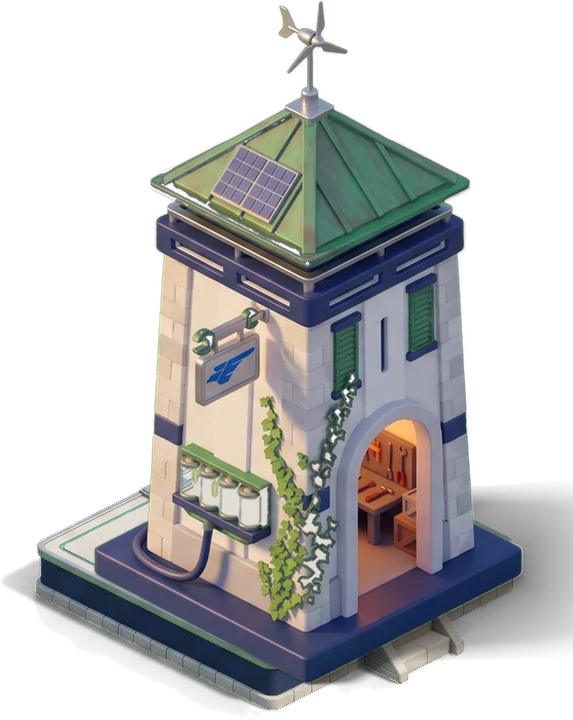
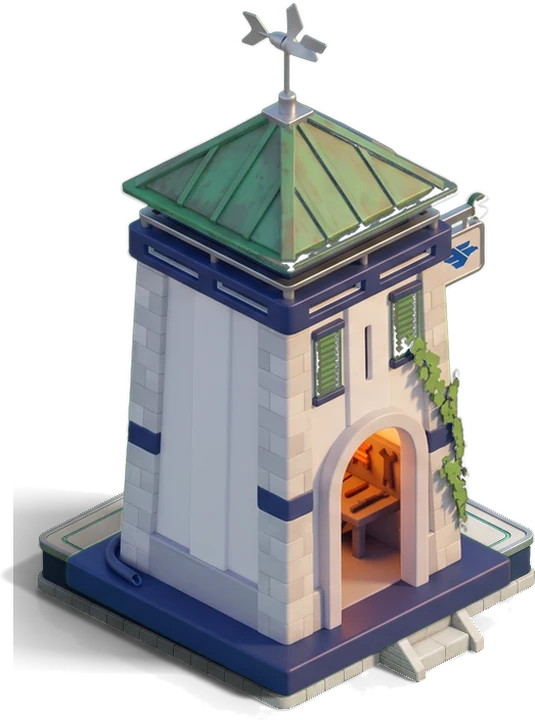
Builders' huts: each its own facing, centred on its pad, a thin edge of the pad showing all round

diff --git a/js/core/item-fit.js b/js/core/item-fit.js
@@ -180,8 +180,8 @@ export const ITEM_FIT = {
     "pad": 0.006
   },
   "icons/Items/builder-blue-2-b.webp": {
-    "w": 0.883,
-    "mid": 0.512,
+    "w": 0.922,
+    "mid": 0.535,
     "pad": 0.006
   },
   "icons/Items/builder-gold-2-a.webp": {
@@ -190,8 +190,8 @@ export const ITEM_FIT = {
     "pad": 0.017
   },
   "icons/Items/builder-gold-2-b.webp": {
-    "w": 0.852,
-    "mid": 0.494,
+    "w": 0.922,
+    "mid": 0.534,
     "pad": 0.019
   },
   "icons/Items/builder-green-2-a.webp": {
@@ -200,8 +200,8 @@ export const ITEM_FIT = {
     "pad": 0.014
   },
   "icons/Items/builder-green-2-b.webp": {
-    "w": 0.846,
-    "mid": 0.486,
+    "w": 0.929,
+    "mid": 0.536,
     "pad": 0.015
   },
   "icons/Items/builder-red-2-a.webp": {
@@ -210,9 +210,9 @@ export const ITEM_FIT = {
     "pad": 0.008
   },
   "icons/Items/builder-red-2-b.webp": {
-    "w": 0.873,
-    "mid": 0.511,
-    "pad": 0.015
+    "w": 0.919,
+    "mid": 0.537,
+    "pad": 0.017
   },
   "icons/Items/clan-arcade-cabinet-a.webp": {
     "w": 0.926,

diff --git a/tools/render-items/make-builders.py b/tools/render-items/make-builders.py
@@ -6,10 +6,8 @@
 <cut dir>  Base/repaint/cut: pad-navy-<who>-<a|b>.png/.json and hut-navy-<who>-<a|b>.png/.json
            (cut-base-repaints.py; the renders' frames, PPU 100, the json's ox/oy the footprint's middle)
 
-The hut nearly fills its pad (HUT of the pad's side), its middle on the pad's, its door over the pad's stairs:
-on face a both are on the front-left side, near its middle. Face b's own hut renders have their door a tile
-off the middle of the front-right side, away from the pad's stairs, so face b stands the a hut mirrored on
-the b pad (its door then over the stairs too). The item's footprint is the pad's.
+The hut nearly fills its pad (HUT of the pad's side, a thin edge of the pad showing all round), its middle on
+the pad's middle. The item's footprint is the pad's.
 """
 import json, os, sys
 from PIL import Image
@@ -25,11 +23,9 @@ def main():
     for who, k in HUT.items():
         for face in 'ab':
             pm = json.load(open(os.path.join(cut, f'pad-navy-{who}-{face}.json')))
-            hm = dict(json.load(open(os.path.join(cut, f'hut-navy-{who}-a.json'))))
+            hm = json.load(open(os.path.join(cut, f'hut-navy-{who}-{face}.json')))
             pad = Image.open(os.path.join(cut, f'pad-navy-{who}-{face}.png')).convert('RGBA')
-            hut = Image.open(os.path.join(cut, f'hut-navy-{who}-a.png')).convert('RGBA')
-            if face == 'b':
-                hut = hut.transpose(Image.FLIP_LEFT_RIGHT); hm['ox'] = hut.width - hm['ox']
+            hut = Image.open(os.path.join(cut, f'hut-navy-{who}-{face}.png')).convert('RGBA')
             s = k * pm['tiles'] / hm['tiles']
             hut = hut.resize((round(hut.width * s), round(hut.height * s)), Image.LANCZOS)
             hx, hy = pm['ox'] - hm['ox'] * s, pm['oy'] - LIFT - hm['oy'] * s
